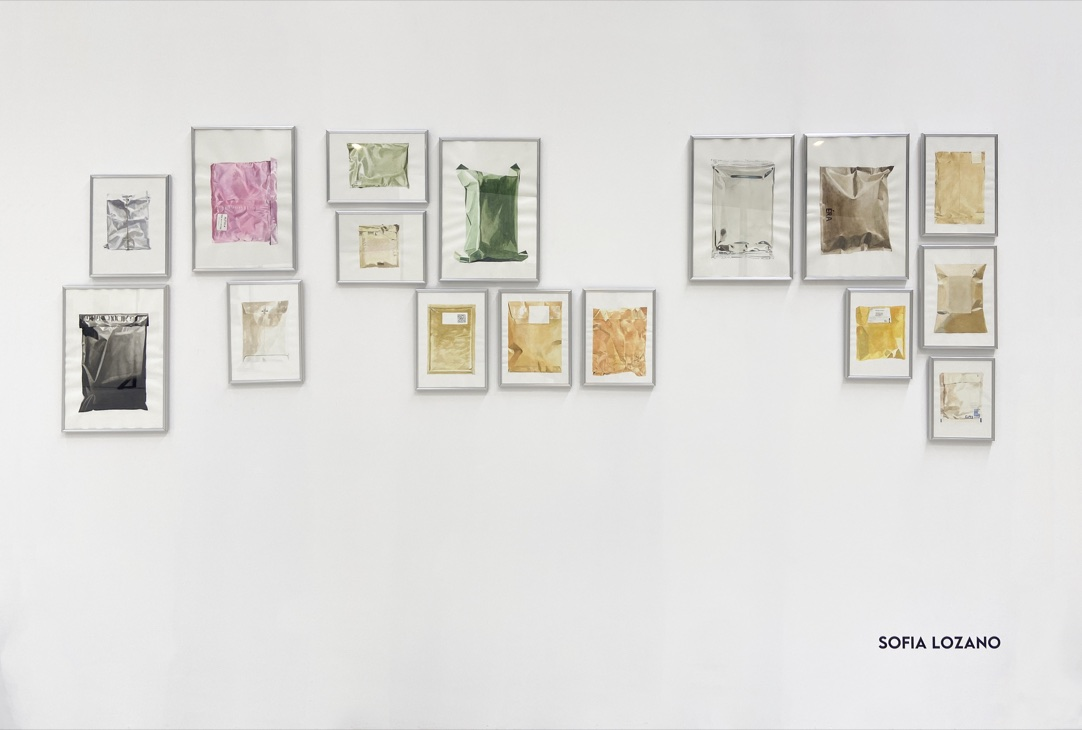
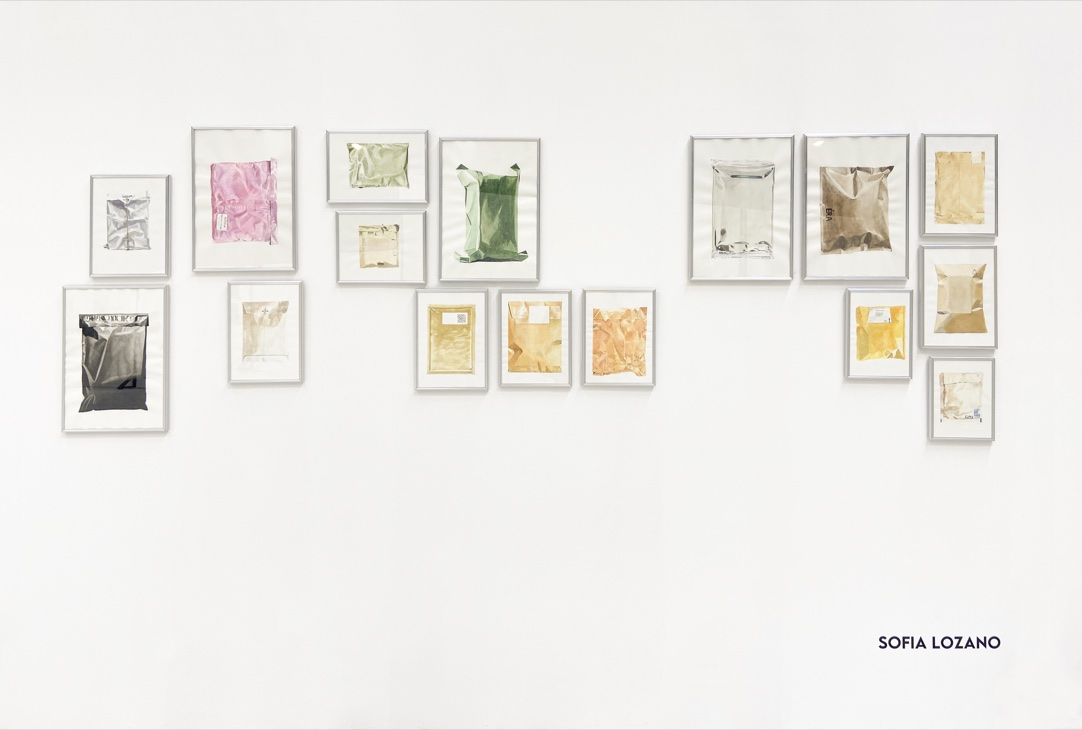
Empaques: nueva versión de la foto de montaje

diff --git a/en/empaques.html b/en/empaques.html
@@ -53,7 +53,7 @@
 <div class="lienzo">
 <div class="intro"><div class="volver-fila"><div class="rt"><p class="font_8" style="font-size:40px; line-height:normal;"><a href="proyectos.html"><span style="color:#000000;"><span style="font-size:40px;"><span style="letter-spacing:normal;"><svg class="flecha" viewBox="0 0 25 22" role="img" aria-label="Volver" fill="none" stroke="#000000" stroke-width="1.15" stroke-linecap="round" stroke-linejoin="round"><path d="M23 11 H3"/><path d="M9 5.6 L3 11 L9 16.4"/></svg></span></span></span></a></p></div></div><div class="encabezado"><div class="rt"><h1 class="font_0" style="font-size:34px;"><span style="color:#000000;"><span style="font-family:open sans,sans-serif;"><span style="font-size:34px;">empaques</span></span></span></h1></div><div class="rt"><p class="font_8 fecha">5 - 8 November 2026</p><p class="font_8 sede">Bogotá. Feria del Millón.</p><p class="font_8 sede">➝ <a href="https://feria-millon.immsai.com/artista/6a6e7dc3d63b8f9eccf34c17" target="_blank" rel="noreferrer noopener">Feria del Millón 2026 - Sofía Lozano.</a></p><p class="font_8 sede hueco">Series of 16 watercolours.</p></div></div><div class="cuerpo"><div class="rt"><p class="font_8" style="font-size:14px;"><span style="font-size:14px;"><span style="font-weight:300;"><span style="font-family:almarai,sans-serif;">How do you paint what cannot be seen? For a long time I have been thinking about bags and packaging, those generic objects in which anything at all might arrive. Manila envelopes, crumpled plastic bags, self-adhesive seals, barcodes, partial texts, logos. Painted in watercolour on white grounds, these wrappings hold themselves up. I am interested in that instant when an object stops pointing towards something and begins to point to itself. The folds show hands that are no longer there. It is not about the contents, but about the gesture of containing. Each package is a question and, at the same time, an unknown.</span></span></span></p></div></div></div>
 <div class="obras">
-<div class="obra"><div class="foto"><img src="../assets/img/empaques-montaje.jpg?v=e80af8d0" alt="" width="541" height="365" loading="lazy"></div><div class="ficha"><div class="rt"><p class="font_8" style="font-size:12px; line-height:1.4em;"><span style="color:#414141;"><span style="font-size:12px;"><span style="letter-spacing:0em;">General view of the exhibition.</span></span></span></p></div></div></div>
+<div class="obra"><div class="foto"><img src="../assets/img/empaques-montaje.jpg?v=7b17a80f" alt="" width="541" height="365" loading="lazy"></div><div class="ficha"><div class="rt"><p class="font_8" style="font-size:12px; line-height:1.4em;"><span style="color:#414141;"><span style="font-size:12px;"><span style="letter-spacing:0em;">General view of the exhibition.</span></span></span></p></div></div></div>
 <div class="obra"><div class="foto"><img src="../assets/img/empaques-01.jpg?v=5a7a7904" alt="" width="541" height="741" loading="lazy"></div><div class="ficha"><div class="rt"><p class="font_8" style="font-size:12px; line-height:1.4em;"><span style="color:#414141;"><span style="font-size:12px;"><span style="letter-spacing:0em;">From the series Empaques, 2026. Painting. Watercolour. 25 x 35 cm.</span></span></span></p></div></div></div>
 <div class="obra"><div class="foto"><img src="../assets/img/empaques-02.jpg?v=1a60ab43" alt="" width="541" height="759" loading="lazy"></div><div class="ficha"><div class="rt"><p class="font_8" style="font-size:12px; line-height:1.4em;"><span style="color:#414141;"><span style="font-size:12px;"><span style="letter-spacing:0em;">From the series Empaques, 2026. Painting. Watercolour. 25 x 35 cm.</span></span></span></p></div></div></div>
 <div class="obra"><div class="foto"><img src="../assets/img/empaques-03.jpg?v=9565d345" alt="" width="541" height="744" loading="lazy"></div><div class="ficha"><div class="rt"><p class="font_8" style="font-size:12px; line-height:1.4em;"><span style="color:#414141;"><span style="font-size:12px;"><span style="letter-spacing:0em;">From the series Empaques, 2026. Painting. Watercolour. 25 x 35 cm.</span></span></span></p></div></div></div>

diff --git a/empaques.html b/empaques.html
@@ -53,7 +53,7 @@
 <div class="lienzo">
 <div class="intro"><div class="volver-fila"><div class="rt"><p class="font_8" style="font-size:40px; line-height:normal;"><a href="proyectos.html"><span style="color:#000000;"><span style="font-size:40px;"><span style="letter-spacing:normal;"><svg class="flecha" viewBox="0 0 25 22" role="img" aria-label="Volver" fill="none" stroke="#000000" stroke-width="1.15" stroke-linecap="round" stroke-linejoin="round"><path d="M23 11 H3"/><path d="M9 5.6 L3 11 L9 16.4"/></svg></span></span></span></a></p></div></div><div class="encabezado"><div class="rt"><h1 class="font_0" style="font-size:34px;"><span style="color:#000000;"><span style="font-family:open sans,sans-serif;"><span style="font-size:34px;">empaques</span></span></span></h1></div><div class="rt"><p class="font_8 fecha">5 - 8 de Noviembre 2026</p><p class="font_8 sede">Bogotá. Feria del Millón.</p><p class="font_8 sede">➝ <a href="https://feria-millon.immsai.com/artista/6a6e7dc3d63b8f9eccf34c17" target="_blank" rel="noreferrer noopener">Feria del Millón 2026 - Sofía Lozano.</a></p><p class="font_8 sede hueco">Serie de 16 acuarelas.</p></div></div><div class="cuerpo"><div class="rt"><p class="font_8" style="font-size:14px;"><span style="font-size:14px;"><span style="font-weight:300;"><span style="font-family:almarai,sans-serif;">¿Cómo pintar lo que no se ve? Hace tiempo pienso en las bolsas y los empaques, esos objetos genéricos donde puede venir cualquier cosa. Sobres de manila, bolsas de plástico arrugadas, cierres autoadhesivos, códigos de barras, textos parciales, logotipos. Pintadas en acuarela sobre fondos blancos, estas envolturas se sostienen solas. Me interesa ese instante en que un objeto deja de señalar hacia algo y empieza a señalarse a sí mismo. Los pliegues muestran manos que ya no están. No se trata del contenido, sino del gesto de contener. Cada paquete es una pregunta y es al mismo tiempo una incógnita.</span></span></span></p></div></div></div>
 <div class="obras">
-<div class="obra"><div class="foto"><img src="assets/img/empaques-montaje.jpg?v=e80af8d0" alt="" width="541" height="365" loading="lazy"></div><div class="ficha"><div class="rt"><p class="font_8" style="font-size:12px; line-height:1.4em;"><span style="color:#414141;"><span style="font-size:12px;"><span style="letter-spacing:0em;">Vista general de la exposición.</span></span></span></p></div></div></div>
+<div class="obra"><div class="foto"><img src="assets/img/empaques-montaje.jpg?v=7b17a80f" alt="" width="541" height="365" loading="lazy"></div><div class="ficha"><div class="rt"><p class="font_8" style="font-size:12px; line-height:1.4em;"><span style="color:#414141;"><span style="font-size:12px;"><span style="letter-spacing:0em;">Vista general de la exposición.</span></span></span></p></div></div></div>
 <div class="obra"><div class="foto"><img src="assets/img/empaques-01.jpg?v=5a7a7904" alt="" width="541" height="741" loading="lazy"></div><div class="ficha"><div class="rt"><p class="font_8" style="font-size:12px; line-height:1.4em;"><span style="color:#414141;"><span style="font-size:12px;"><span style="letter-spacing:0em;">De la serie Empaques, 2026. Pintura. Acuarela. 25 x 35 cm.</span></span></span></p></div></div></div>
 <div class="obra"><div class="foto"><img src="assets/img/empaques-02.jpg?v=1a60ab43" alt="" width="541" height="759" loading="lazy"></div><div class="ficha"><div class="rt"><p class="font_8" style="font-size:12px; line-height:1.4em;"><span style="color:#414141;"><span style="font-size:12px;"><span style="letter-spacing:0em;">De la serie Empaques, 2026. Pintura. Acuarela. 25 x 35 cm.</span></span></span></p></div></div></div>
 <div class="obra"><div class="foto"><img src="assets/img/empaques-03.jpg?v=9565d345" alt="" width="541" height="744" loading="lazy"></div><div class="ficha"><div class="rt"><p class="font_8" style="font-size:12px; line-height:1.4em;"><span style="color:#414141;"><span style="font-size:12px;"><span style="letter-spacing:0em;">De la serie Empaques, 2026. Pintura. Acuarela. 25 x 35 cm.</span></span></span></p></div></div></div>
